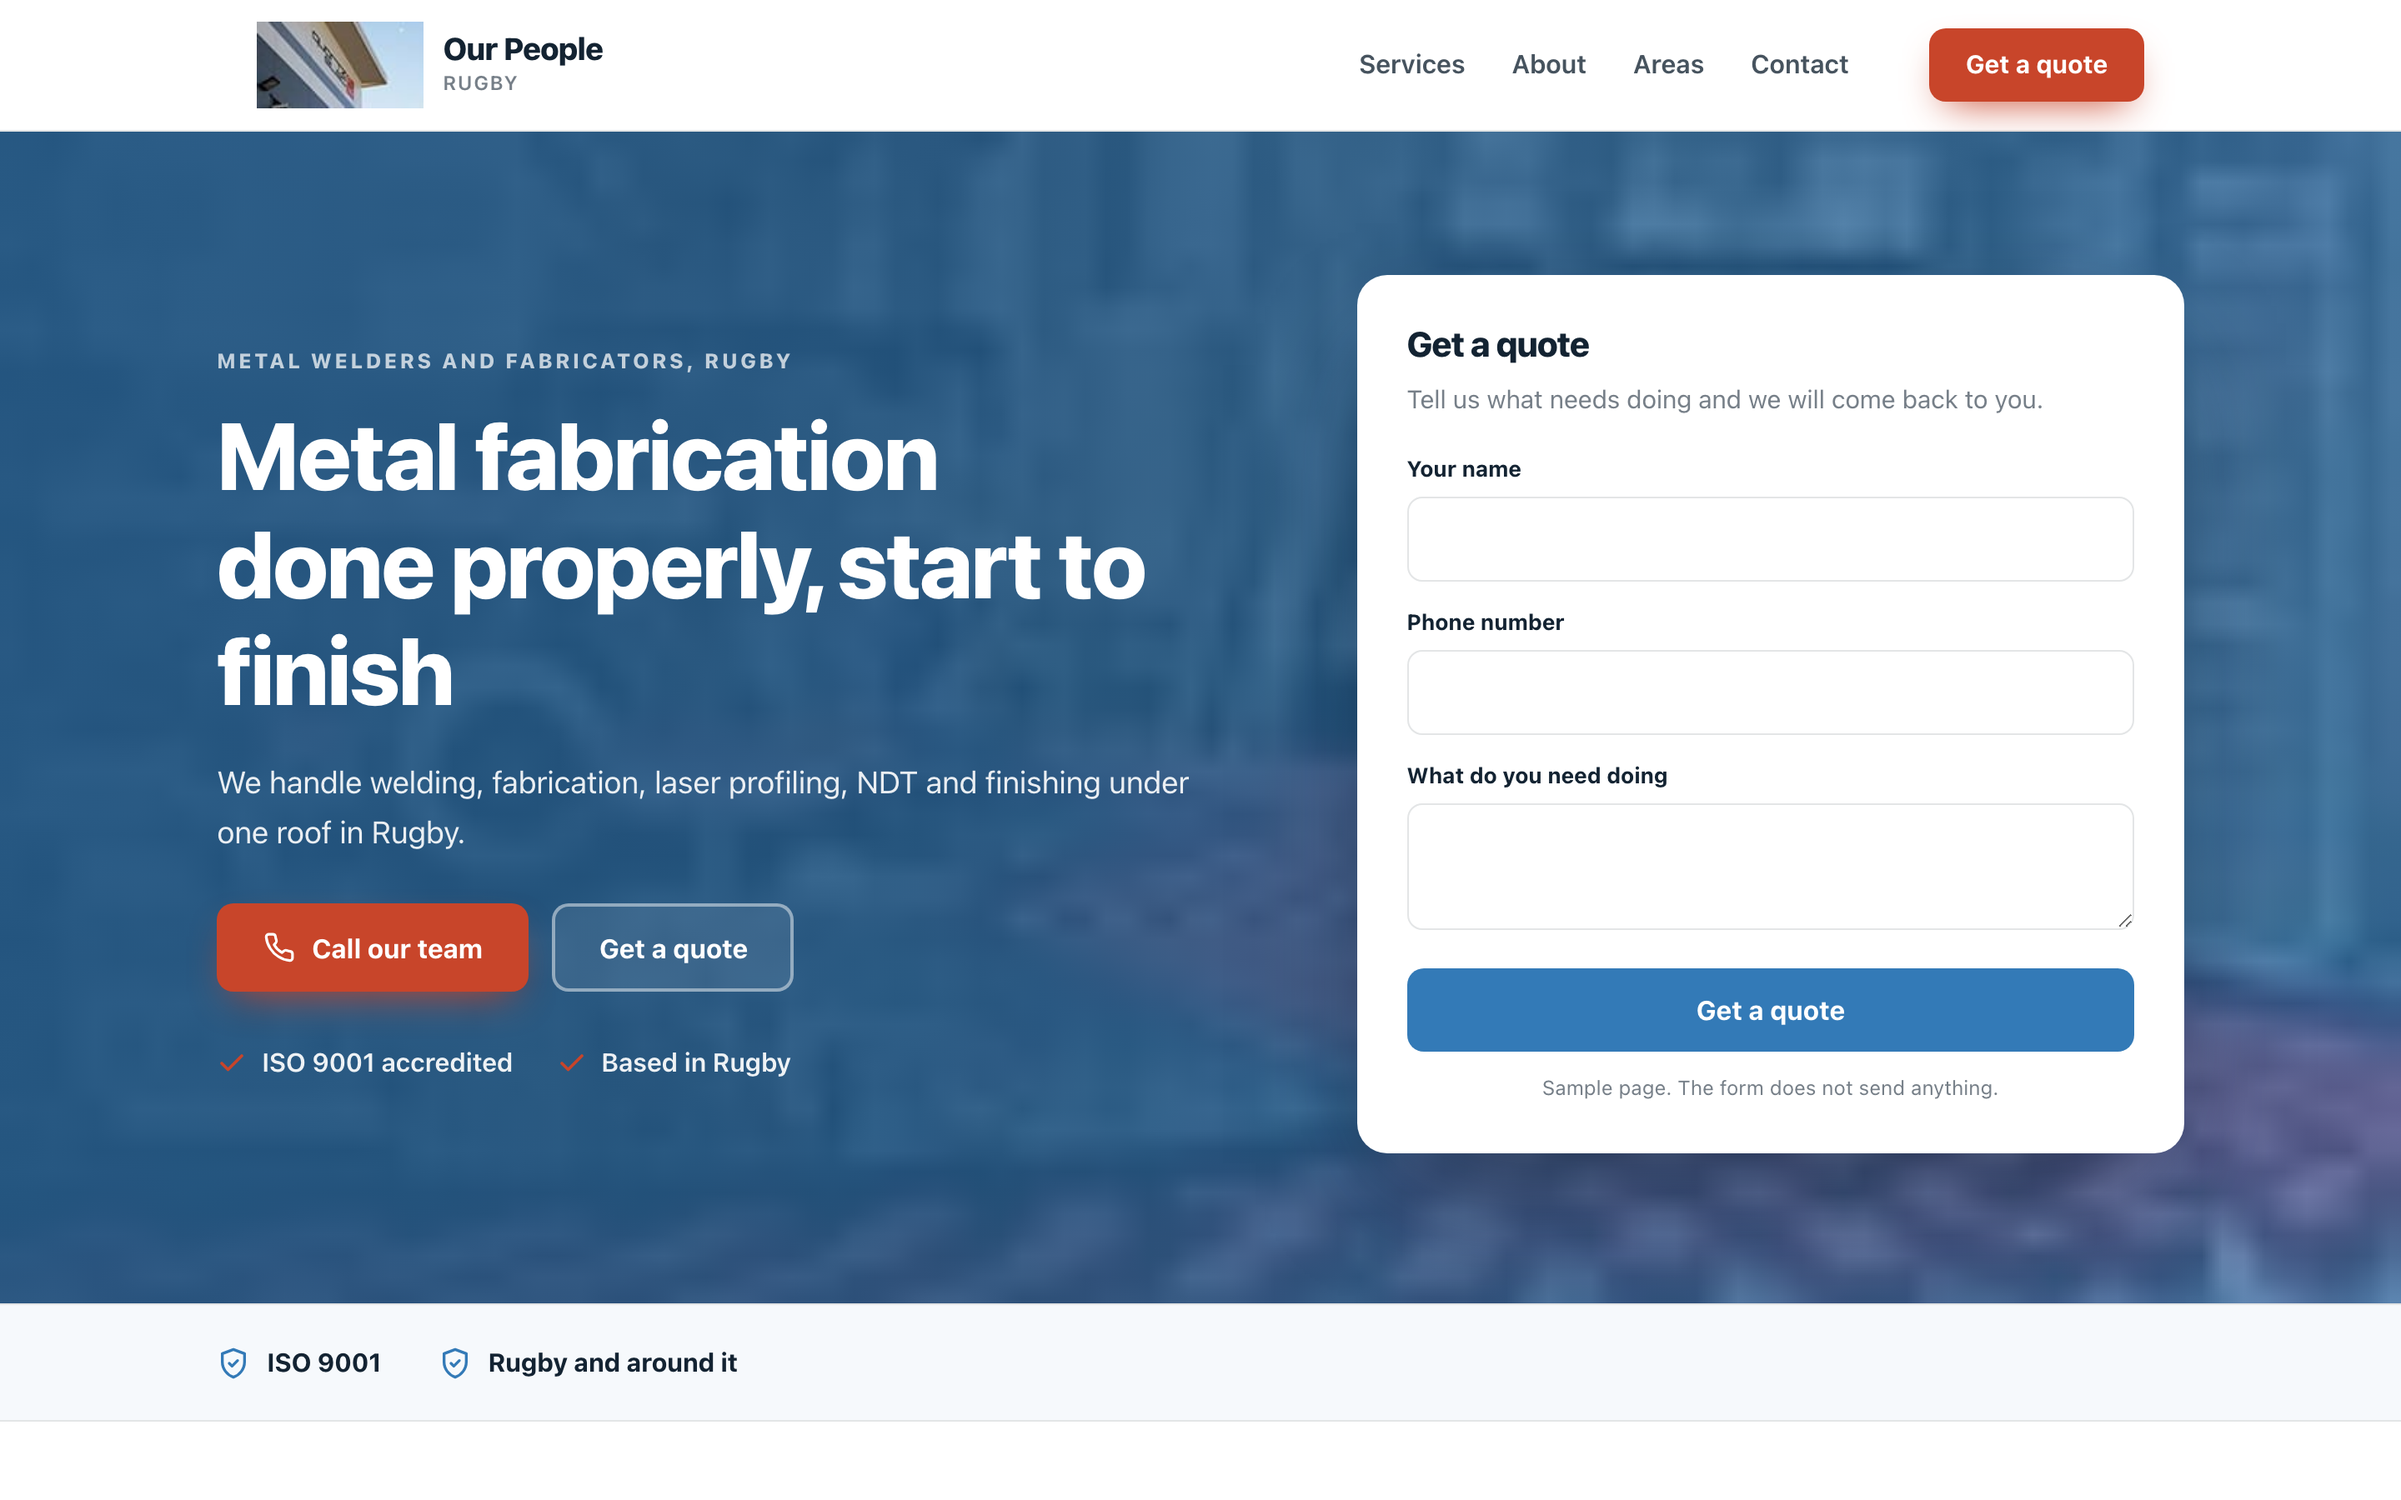
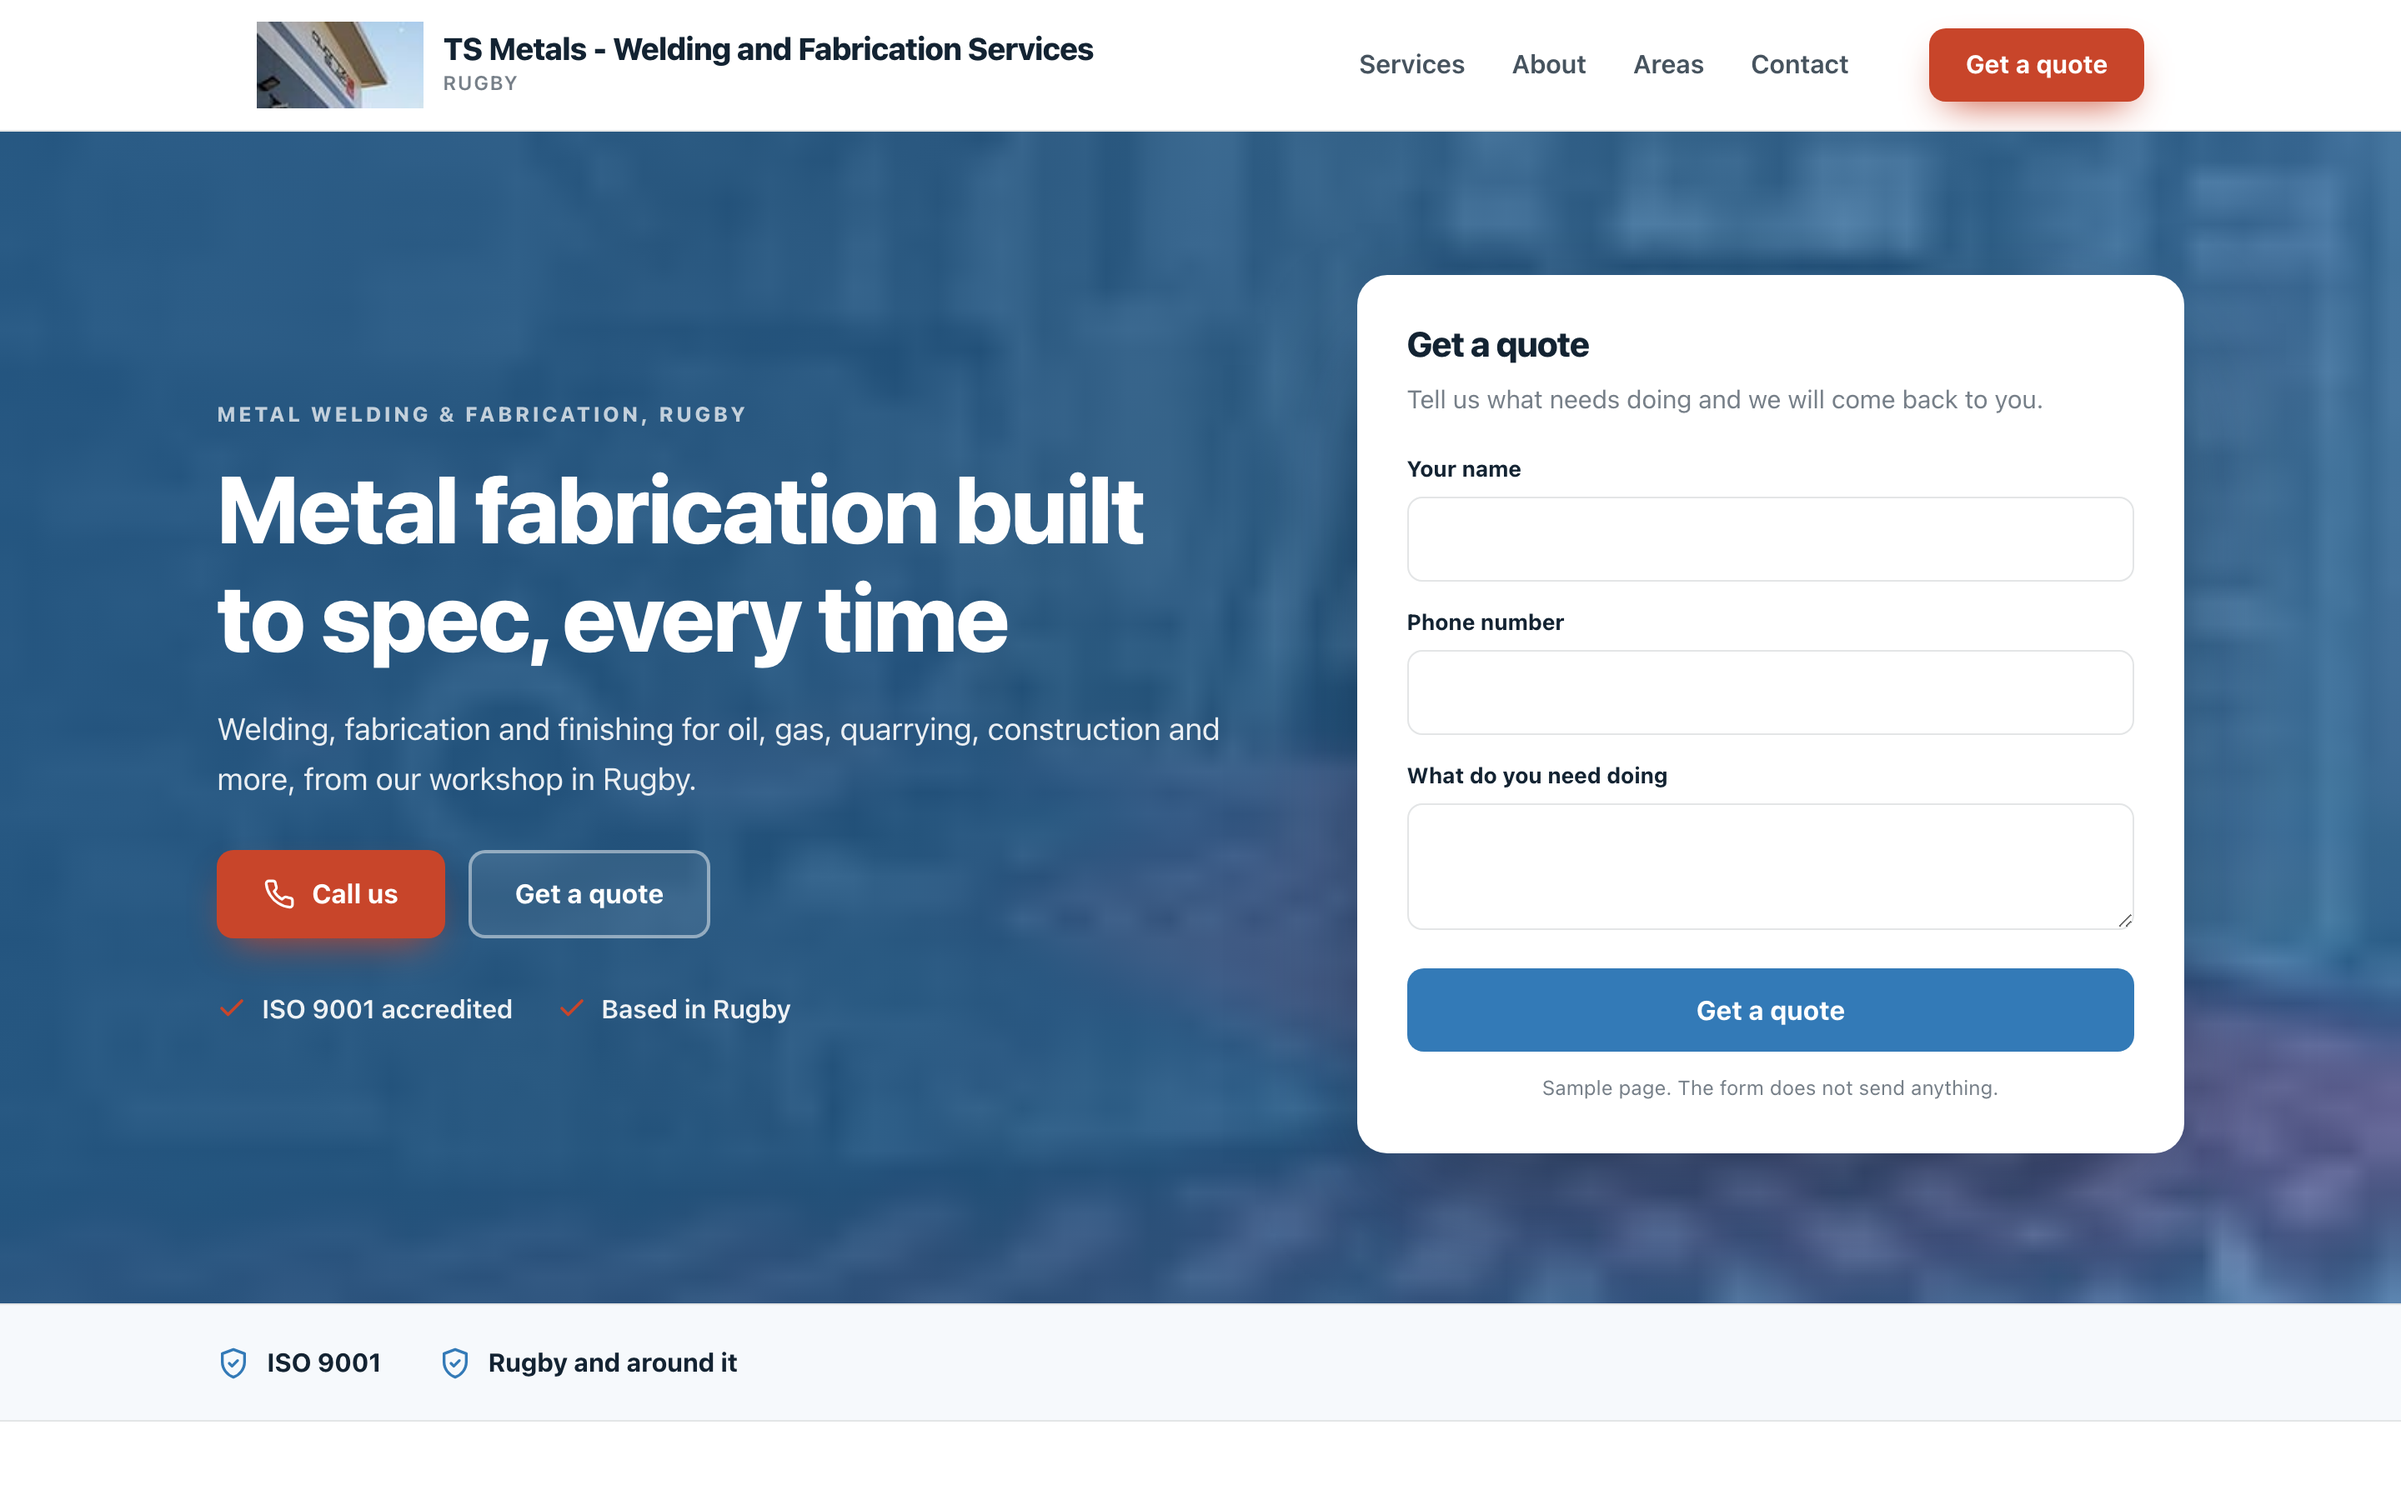
Sample homepage for TS Metals - Welding and Fabrication Services

Changed region(s): [[0.0625, 0.2178, 0.5, 0.7156], [0.1875, 0.0, 0.4688, 0.0622]]

diff --git a/docs/8e60f51a86/index.html b/docs/8e60f51a86/index.html
@@ -4,12 +4,12 @@
 <meta charset="utf-8">
 <meta name="viewport" content="width=device-width, initial-scale=1">
 <meta name="robots" content="noindex,nofollow">
-<title>Our People sample homepage</title>
-<meta name="description" content="We handle welding, fabrication, laser profiling, NDT and finishing under one roof in Rugby.">
+<title>TS Metals - Welding and Fabrication Services sample homepage</title>
+<meta name="description" content="Welding, fabrication and finishing for oil, gas, quarrying, construction and more, from our workshop in Rugby.">
 <link rel="canonical" href="https://markygff.github.io/aso-mockups/8e60f51a86/">
 <meta property="og:type" content="website">
-<meta property="og:title" content="Our People sample homepage">
-<meta property="og:description" content="We handle welding, fabrication, laser profiling, NDT and finishing under one roof in Rugby.">
+<meta property="og:title" content="TS Metals - Welding and Fabrication Services sample homepage">
+<meta property="og:description" content="Welding, fabrication and finishing for oil, gas, quarrying, construction and more, from our workshop in Rugby.">
 <meta property="og:url" content="https://markygff.github.io/aso-mockups/8e60f51a86/">
 <meta property="og:image" content="https://www.tsmetalsquartzelec.com/store/images/ts-thumbnail-images-factory.jpg"><style>
 :root{
@@ -119,8 +119,8 @@ p{margin:0}
 <header class="header">
   <div class="wrap header-in">
     <div class="brand">
-<img src="https://www.tsmetalsquartzelec.com/store/images/1-menu-teaser.jpg" alt="Our People logo">      <div>
-        <div class="brand-name">Our People</div>
+<img src="https://www.tsmetalsquartzelec.com/store/images/1-menu-teaser.jpg" alt="TS Metals - Welding and Fabrication Services logo">      <div>
+        <div class="brand-name">TS Metals - Welding and Fabrication Services</div>
 <div class="brand-sub">Rugby</div>      </div>
     </div>
     <nav class="nav">
@@ -136,11 +136,11 @@ p{margin:0}
   <div class="hero-bg"><img src="https://www.tsmetalsquartzelec.com/store/images/ts-thumbnail-images-factory.jpg" alt="Food &amp; Beverage" width="1600" height="900"></div>
   <div class="wrap hero-in">
     <div>
-      <p class="eyebrow">Metal welders and fabricators, Rugby</p>
-      <h1>Metal fabrication done properly, start to finish</h1>
-      <p class="hero-sub">We handle welding, fabrication, laser profiling, NDT and finishing under one roof in Rugby.</p>
+      <p class="eyebrow">Metal Welding &amp; Fabrication, Rugby</p>
+      <h1>Metal fabrication built to spec, every time</h1>
+      <p class="hero-sub">Welding, fabrication and finishing for oil, gas, quarrying, construction and more, from our workshop in Rugby.</p>
       <div class="hero-actions">
-        <span class="btn btn-accent"><svg viewBox="0 0 24 24" fill="none" stroke="currentColor" stroke-width="2" stroke-linecap="round" stroke-linejoin="round" aria-hidden="true"><path d="M22 16.9v3a2 2 0 0 1-2.2 2 19.8 19.8 0 0 1-8.6-3.1 19.5 19.5 0 0 1-6-6 19.8 19.8 0 0 1-3.1-8.7A2 2 0 0 1 4.1 2h3a2 2 0 0 1 2 1.7c.1 1 .4 1.9.7 2.8a2 2 0 0 1-.5 2.1L8.1 9.9a16 16 0 0 0 6 6l1.3-1.2a2 2 0 0 1 2.1-.5c.9.3 1.8.6 2.8.7a2 2 0 0 1 1.7 2z"/></svg>Call our team</span>
+        <span class="btn btn-accent"><svg viewBox="0 0 24 24" fill="none" stroke="currentColor" stroke-width="2" stroke-linecap="round" stroke-linejoin="round" aria-hidden="true"><path d="M22 16.9v3a2 2 0 0 1-2.2 2 19.8 19.8 0 0 1-8.6-3.1 19.5 19.5 0 0 1-6-6 19.8 19.8 0 0 1-3.1-8.7A2 2 0 0 1 4.1 2h3a2 2 0 0 1 2 1.7c.1 1 .4 1.9.7 2.8a2 2 0 0 1-.5 2.1L8.1 9.9a16 16 0 0 0 6 6l1.3-1.2a2 2 0 0 1 2.1-.5c.9.3 1.8.6 2.8.7a2 2 0 0 1 1.7 2z"/></svg>Call us</span>
         <span class="btn btn-ghost">Get a quote</span>
       </div>
       <ul class="hero-bullets">
@@ -169,29 +169,29 @@ p{margin:0}
   <div class="wrap">
     <div class="services-head">
       <p class="eyebrow">What we do</p>
-      <h2>Our People, Rugby</h2>
-      <p>We handle welding, fabrication, laser profiling, NDT and finishing under one roof in Rugby.</p>
+      <h2>TS Metals - Welding and Fabrication Services, Rugby</h2>
+      <p>Welding, fabrication and finishing for oil, gas, quarrying, construction and more, from our workshop in Rugby.</p>
     </div>
     <div class="grid">
       <article class="card">
         <div class="icon"><svg viewBox="0 0 24 24" fill="none" stroke="currentColor" stroke-width="2" stroke-linecap="round" stroke-linejoin="round" aria-hidden="true"><path d="M14.7 6.3a4 4 0 0 0 5.3 5.3l-8 8a3 3 0 0 1-4.2-4.2z"/><path d="m14.7 6.3 3-3"/></svg></div>
         <h3>Welding &amp; Fabrication</h3>
-        <p>Full welding and fabrication for finished products or complex projects.</p>
+        <p>Full welding and fabrication work, from single parts to finished assemblies.</p>
       </article>
       <article class="card">
         <div class="icon"><svg viewBox="0 0 24 24" fill="none" stroke="currentColor" stroke-width="2" stroke-linecap="round" stroke-linejoin="round" aria-hidden="true"><path d="M13 2 4 14h7l-1 8 9-12h-7z"/></svg></div>
         <h3>Laser Profiling</h3>
-        <p>Laser cutting for one-off jobs, prototypes or batch runs.</p>
+        <p>Laser cut parts for one-off jobs, prototypes or batch runs.</p>
       </article>
       <article class="card">
         <div class="icon"><svg viewBox="0 0 24 24" fill="none" stroke="currentColor" stroke-width="2" stroke-linecap="round" stroke-linejoin="round" aria-hidden="true"><path d="M3 10.5 12 3l9 7.5"/><path d="M5 9.5V21h14V9.5"/><path d="M10 21v-6h4v6"/></svg></div>
         <h3>NDT Services</h3>
-        <p>Inspection and testing to back up every job we do.</p>
+        <p>Inspection and testing carried out to check every job meets standard.</p>
       </article>
       <article class="card">
         <div class="icon"><svg viewBox="0 0 24 24" fill="none" stroke="currentColor" stroke-width="2" stroke-linecap="round" stroke-linejoin="round" aria-hidden="true"><path d="M4 20 15 9"/><path d="m14 4 6 6-3 3-6-6z"/><path d="m3 15 6 6"/></svg></div>
         <h3>Finishing Services</h3>
-        <p>Preparation and protective coatings applied to your specification.</p>
+        <p>Coatings and finishing applied so fabrications hold up to their working environment.</p>
       </article>
     </div>
   </div>
@@ -199,7 +199,7 @@ p{margin:0}
 
 <footer class="footer">
   <div class="wrap footer-in">
-    <span>Sample built for Our People from your public website. Not live. Tell us and we delete it.</span>
+    <span>Sample built for TS Metals - Welding and Fabrication Services from your public website. Not live. Tell us and we delete it.</span>
     <span>tsmetalsquartzelec.com</span>
   </div>
 </footer>
